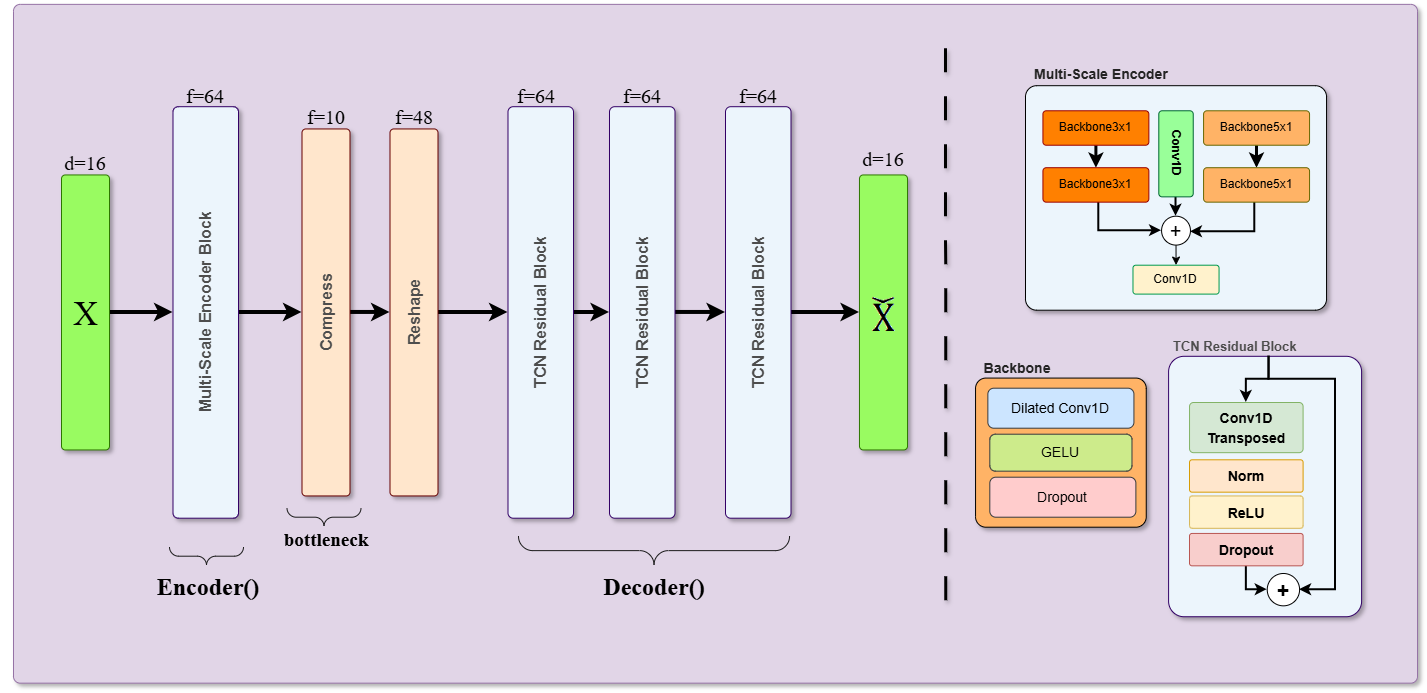
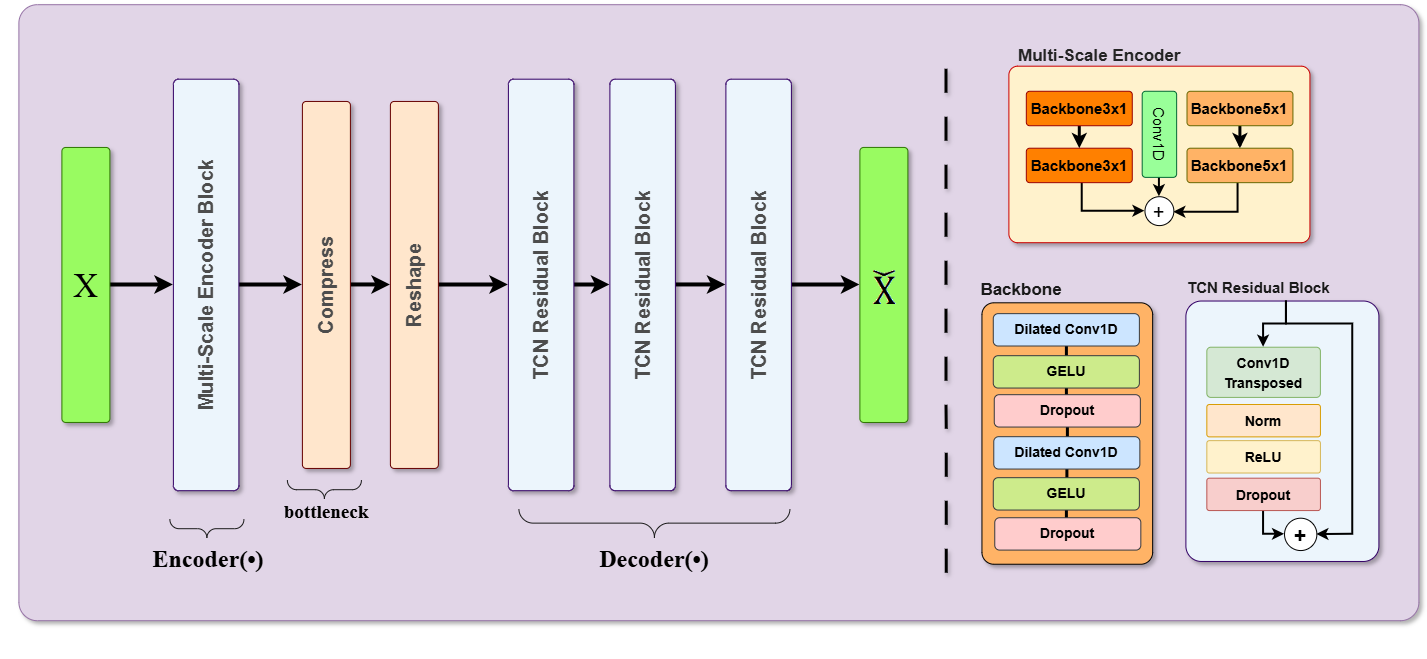
Revise workflow and organize

diff --git a/src/detect.py b/src/detect.py
@@ -25,56 +25,63 @@ def calculate_anomaly_scores(mse, labels, eval_points=True):
 
 
 # Use static thresholding to determine the threshold for anomaly detection
-def static_thresholding(anomaly_scores, static_type, n_percentile, k):
+def determine_threshold(anomaly_scores, static_type, n_percentile, k):
     """
     Parameters:
         - anomaly_scores: Anomaly scores calculated from MSE
         - static_type: Type of static thresholding ('percentile' or 'std_dev')
         - n_percentile: Percentile value for thresholding (if static_type is 'percentile')
         - k: Number of standard deviations for thresholding (if static_type is 'std_dev')
-
     """
     if static_type == "percentile":
-        return np.percentile(anomaly_scores, n_percentile)
+        if n_percentile is None or k is not None:
+            raise ValueError("Percentile threshold only requires argument n_percentile")
+        else:
+            return np.percentile(anomaly_scores, n_percentile)
+        
+    elif static_type.isin("std_dev", "gaussian"):
+        if n_percentile is not None or k is None:
+            raise ValueError("Std_Dev threshold only requires argument k")
+        else:
+            return np.mean(anomaly_scores) + k * np.std(anomaly_scores)
+
     else:
-        return np.mean(anomaly_scores) + k * np.std(anomaly_scores)
-
-
+        raise ValueError("Unknown static type")
+    
 
 # Use the threshold to flag anomalies based on the anomaly scores
-def flag_anomalies(
-        train_mse,
-        test_mse,
-        test_labels,
-        eval_points,
-        static_type,
-        n_percentile=None,
-        parameter_k=None):
+def detect_anomalies(
+    test_mse,
+    test_labels,
+    eval_points,
+    static_type=None,
+    n_percentile=None,
+    parameter_k=None,
+    threshold=None,
+    baseline_errors=None):
     """
     Parameters:
-        - train_mse: Mean Squared Error values for the training set as lookup distribution
+        - threshold: Boundary to classify normal/anomalous points.
+                     If threshold hasnt been determined, calculate from baseline errors
+        - baseline_errors: Mean Squared Error values set as lookup distribution, can be training or validation error set
         - test_mse: Mean Squared Error values for the test set
         - test_labels: Ground truth labels for the test set
         - eval_points: Whether to evaluate individual points or aggregated values (window-wise)
         - static_type: Type of static thresholding ('percentile' or 'std_dev')
         - n_percentile: Percentile value for thresholding (if static_type is 'percentile')
         - parameter_k: Number of standard deviations for thresholding (if static_type is 'std_dev')
-
-    Returns:
-        - Dictionary containing the threshold, precision, recall, and F1 score of the anomaly detection
     """
 
-    # Determine a threshold based on the lookup distribution and the specified static thresholding method
-    lookup_distribution = np.mean(train_mse, axis=1)
-    threshold = static_thresholding(lookup_distribution, static_type, n_percentile, parameter_k)
+    if threshold is None:
+        if baseline_errors is None:
+            raise ValueError("Baseline errors required if threshold is not yet determined.")
+        if static_type not in ("percentile", "std_dev", "gaussian"):
+            raise ValueError("static_type must be 'percentile' or 'std_dev' when threshold is not provided.")
+
+        lookup_distribution = np.mean(baseline_errors, axis=1)
+        threshold = determine_threshold(lookup_distribution, static_type, n_percentile, parameter_k)
 
     # Flag anomalies based on the threshold and calculate precision, recall, and F1 score
     anomaly_scores, ground_truth = calculate_anomaly_scores(test_mse, test_labels, eval_points)
-    flags = (anomaly_scores > threshold).astype(int)
 
-    return {
-        "Parameter": f"{n_percentile}%" if static_type == "percentile" else f"{parameter_k} std",
-        "Threshold": round(float(threshold), 4),
-        "Precision": round(precision_score(ground_truth, flags, zero_division=0), 4),
-        "Recall": round(recall_score(ground_truth, flags, zero_division=0), 4),
-        "F1 Score": round(f1_score(ground_truth, flags, zero_division=0), 4)}
+    return (anomaly_scores > threshold).astype(int)

diff --git a/src/sliding_windows.py b/src/sliding_windows.py
@@ -1,0 +1,51 @@
+import pandas as pd
+import numpy as np
+from config import *
+
+# Create sliding windows function
+def sliding_windows(X, window_shape, stride):
+    n_windows =  len(X) - window_shape + 1
+    start = np.arange(0, n_windows, stride)
+    windows = np.array([X[j:j+ window_shape] for j in start])
+    return windows
+
+
+# Apply sliding windows to the datasets and save them
+if __name__ == "__main__":
+    source_path = "datasets/preprocessed/datasets.npz"
+    output_path = "datasets/tensors/"
+
+    # Load and extract preprocessed datasets
+    X_train = np.load(source_path)["X_train"]
+    X_val = np.load(source_path)["X_val"]
+    X_test = np.load(source_path)["X_test"]
+    y_train = np.load(source_path)["y_train"]
+    y_val = np.load(source_path)["y_val"]
+    y_test = np.load(source_path)["y_test"]
+
+    X_train_windows = sliding_windows(X_train, WINDOW_SHAPE, TRAIN_STRIDE)
+    X_val_windows = sliding_windows(X_val, WINDOW_SHAPE, TEST_STRIDE)
+    X_test_windows = sliding_windows(X_test, WINDOW_SHAPE, TEST_STRIDE)
+
+    y_train_windows = sliding_windows(y_train, WINDOW_SHAPE, TRAIN_STRIDE)
+    y_val_windows = sliding_windows(y_val, WINDOW_SHAPE, TEST_STRIDE)
+    y_test_windows = sliding_windows(y_test, WINDOW_SHAPE, TEST_STRIDE)
+    
+    print(f"Training dataset shape: {X_train_windows.shape}")
+    print(f"Validation dataset shape: {X_val_windows.shape}")
+    print(f"Testing dataset shape: {X_test_windows.shape}")
+    print(f"Validation labels: {y_val_windows.shape}")
+    print(f"Ground Truth shape: {y_test_windows.shape}")
+
+    # Save datasets
+    np.savez_compressed(
+        output_path + "tensors.npz",
+        train_ds=X_train_windows,
+        val_ds=X_val_windows,
+        test_ds=X_test_windows,
+        train_labels=y_train_windows,
+        val_labels=y_val_windows,
+        test_labels=y_test_windows
+        )
+
+    print("Tensor datasets are saved successfully.")

diff --git a/main.py b/main.py
@@ -1,6 +1,6 @@
 import numpy as np
-from scripts.train_model import train_model
-from scripts.anomaly_detection import flag_anomalies
+from src.train import train_model
+from src.detect import detect_anomalies
 import argparse
 
 
@@ -33,35 +33,34 @@ def main():
         train_ds = data["train_ds"]
         val_ds = data["val_ds"]
         test_ds = data["test_ds"]
-        val_labels = data["val_labels"]
+
         test_labels = data["test_labels"]
 
     #-----------------
     # Train the model
     #-----------------
-    model, history = train_model(train_ds, val_ds, test_ds, val_labels, test_labels)
+    model, history = train_model(train_ds, val_ds)
 
     #--------------------------------------
     # Make predictions and calculate errors
     #--------------------------------------
-    train_predictions = model.predict(train_ds)
-    val_predictions = model.predict(val_ds)
-    test_predictions = model.predict(test_ds)
-
-    train_errors = np.mean(np.square(train_ds - train_predictions), axis=2)
-    val_errors = np.mean(np.square(val_ds - val_predictions), axis=2)
-    test_errors = np.mean(np.square(test_ds - test_predictions), axis=2)
-
+    predictions = model.predict(test_ds)
+    errors = np.mean(np.square(test_ds - predictions), axis=2)
 
     #--------------------------
     # Perform anomaly detection
     #--------------------------
-    result = flag_anomalies(
+    # Get threshold from training error distribution
+    train_predictions = model.predict(train_ds)
+    train_errors = np.mean(np.square(train_ds - train_predictions), axis=2)
+
+    result = detect_anomalies(
         train_errors,
-        test_errors,
+        errors,
         test_labels,
         **kwargs)
-
+    
+    return result
 
 if __name__ == "__main__":
     main()

diff --git a/src/train.py b/src/train.py
@@ -1,25 +1,28 @@
-import tensorflow as tf
-from scripts.variables import *
-from scripts.configs import configuration_settings
-from model.mstcn import MultiScaleAutoEncoder
 import numpy as np
+import tensorflow as tf
+from src.config import *
+from model.mstcn import MultiScaleAutoEncoder
 
 
-def train_model(train_ds, val_ds, test_ds, val_labels, test_labels):
+def train_model(train_ds, val_ds):
     TIME_STEPS = train_ds.shape[1]
     FEATURES = train_ds.shape[2]
     CONFIGS = configuration_settings()
 
     # Traininng setup
     train_tensor = tf.data.Dataset.from_tensor_slices((train_ds, train_ds))
-    train_tensor = train_tensor.shuffle(buffer_size=len(train_ds)).batch(BATCH_SIZE).prefetch(tf.data.AUTOTUNE)
+    train_tensor = (
+        train_tensor
+        .shuffle(buffer_size=len(train_ds))
+        .batch(BATCH_SIZE)
+        .prefetch(tf.data.AUTOTUNE))
+    
     # Validation setup
     val_tensor = tf.data.Dataset.from_tensor_slices((val_ds, val_ds))
-    val_tensor = val_tensor.batch(BATCH_SIZE).prefetch(tf.data.AUTOTUNE)
-    # Testing setup
-    test_tensor = tf.data.Dataset.from_tensor_slices((test_ds, test_ds))
-    test_tensor = test_tensor.batch(BATCH_SIZE).prefetch(tf.data.AUTOTUNE)
-
+    val_tensor = (
+        val_tensor
+        .batch(BATCH_SIZE)
+        .prefetch(tf.data.AUTOTUNE))
 
     model = MultiScaleAutoEncoder(features=FEATURES, latent_dim=LATENT_DIM)
     model.compile(optimizer=tf.keras.optimizers.Adam(learning_rate=LEARNING_RATE), loss='mse')

diff --git a/src/preprocessing.py b/src/preprocessing.py
@@ -1,9 +1,8 @@
 import pandas as pd
 import numpy as np
-
-from scipy import datasets
 from sklearn.preprocessing import StandardScaler
 from sklearn.decomposition import PCA
+
 
 # Clean column names and date reformatting
 def clean_data(
@@ -123,6 +122,7 @@ def main():
 
     attack_clean = clean_data(attack)
     attack_fill = fill_missing_timestamps(attack_clean, actuators, sensors, target)
+    
 
     # ----------------
     # 3. Split dataset 
@@ -166,6 +166,16 @@ def main():
         y_val=y_val,
         y_test=y_test)
     print("Preprocessed datasets saved successfully.")
+
+
+    return {
+        "X_train": X_train_transformed,
+        "X_val": X_val_transformed,
+        "X_test": X_test_transformed,
+        "y_train": y_train,
+        "y_val": y_val,
+        "y_test": y_test
+    }
 
 
 if __name__ == "__main__":

diff --git a/src/config.py b/src/config.py
@@ -1,7 +1,18 @@
 from keras.callbacks import ModelCheckpoint, EarlyStopping, ReduceLROnPlateau
 
+# Premodeling setup
+WINDOW_SHAPE = 120
+TRAIN_STRIDE = 120
+TEST_STRIDE = 10
+
+# Framework setup
+BATCH_SIZE = 256
+LATENT_DIM = 10
+EPOCHS = 50
+LEARNING_RATE = 0.0005
+
 def configuration_settings():
-    checkpoint_path = "checkpoints/model_epoch_{epoch:02d}_val_loss_{val_loss:.4f}.weights.h5"
+    checkpoint_path = "model/checkpoints/model_epoch_{epoch:02d}_val_loss_{val_loss:.4f}.weights.h5"
     checkpoint = ModelCheckpoint(
         filepath=checkpoint_path,
         monitor='val_loss',
